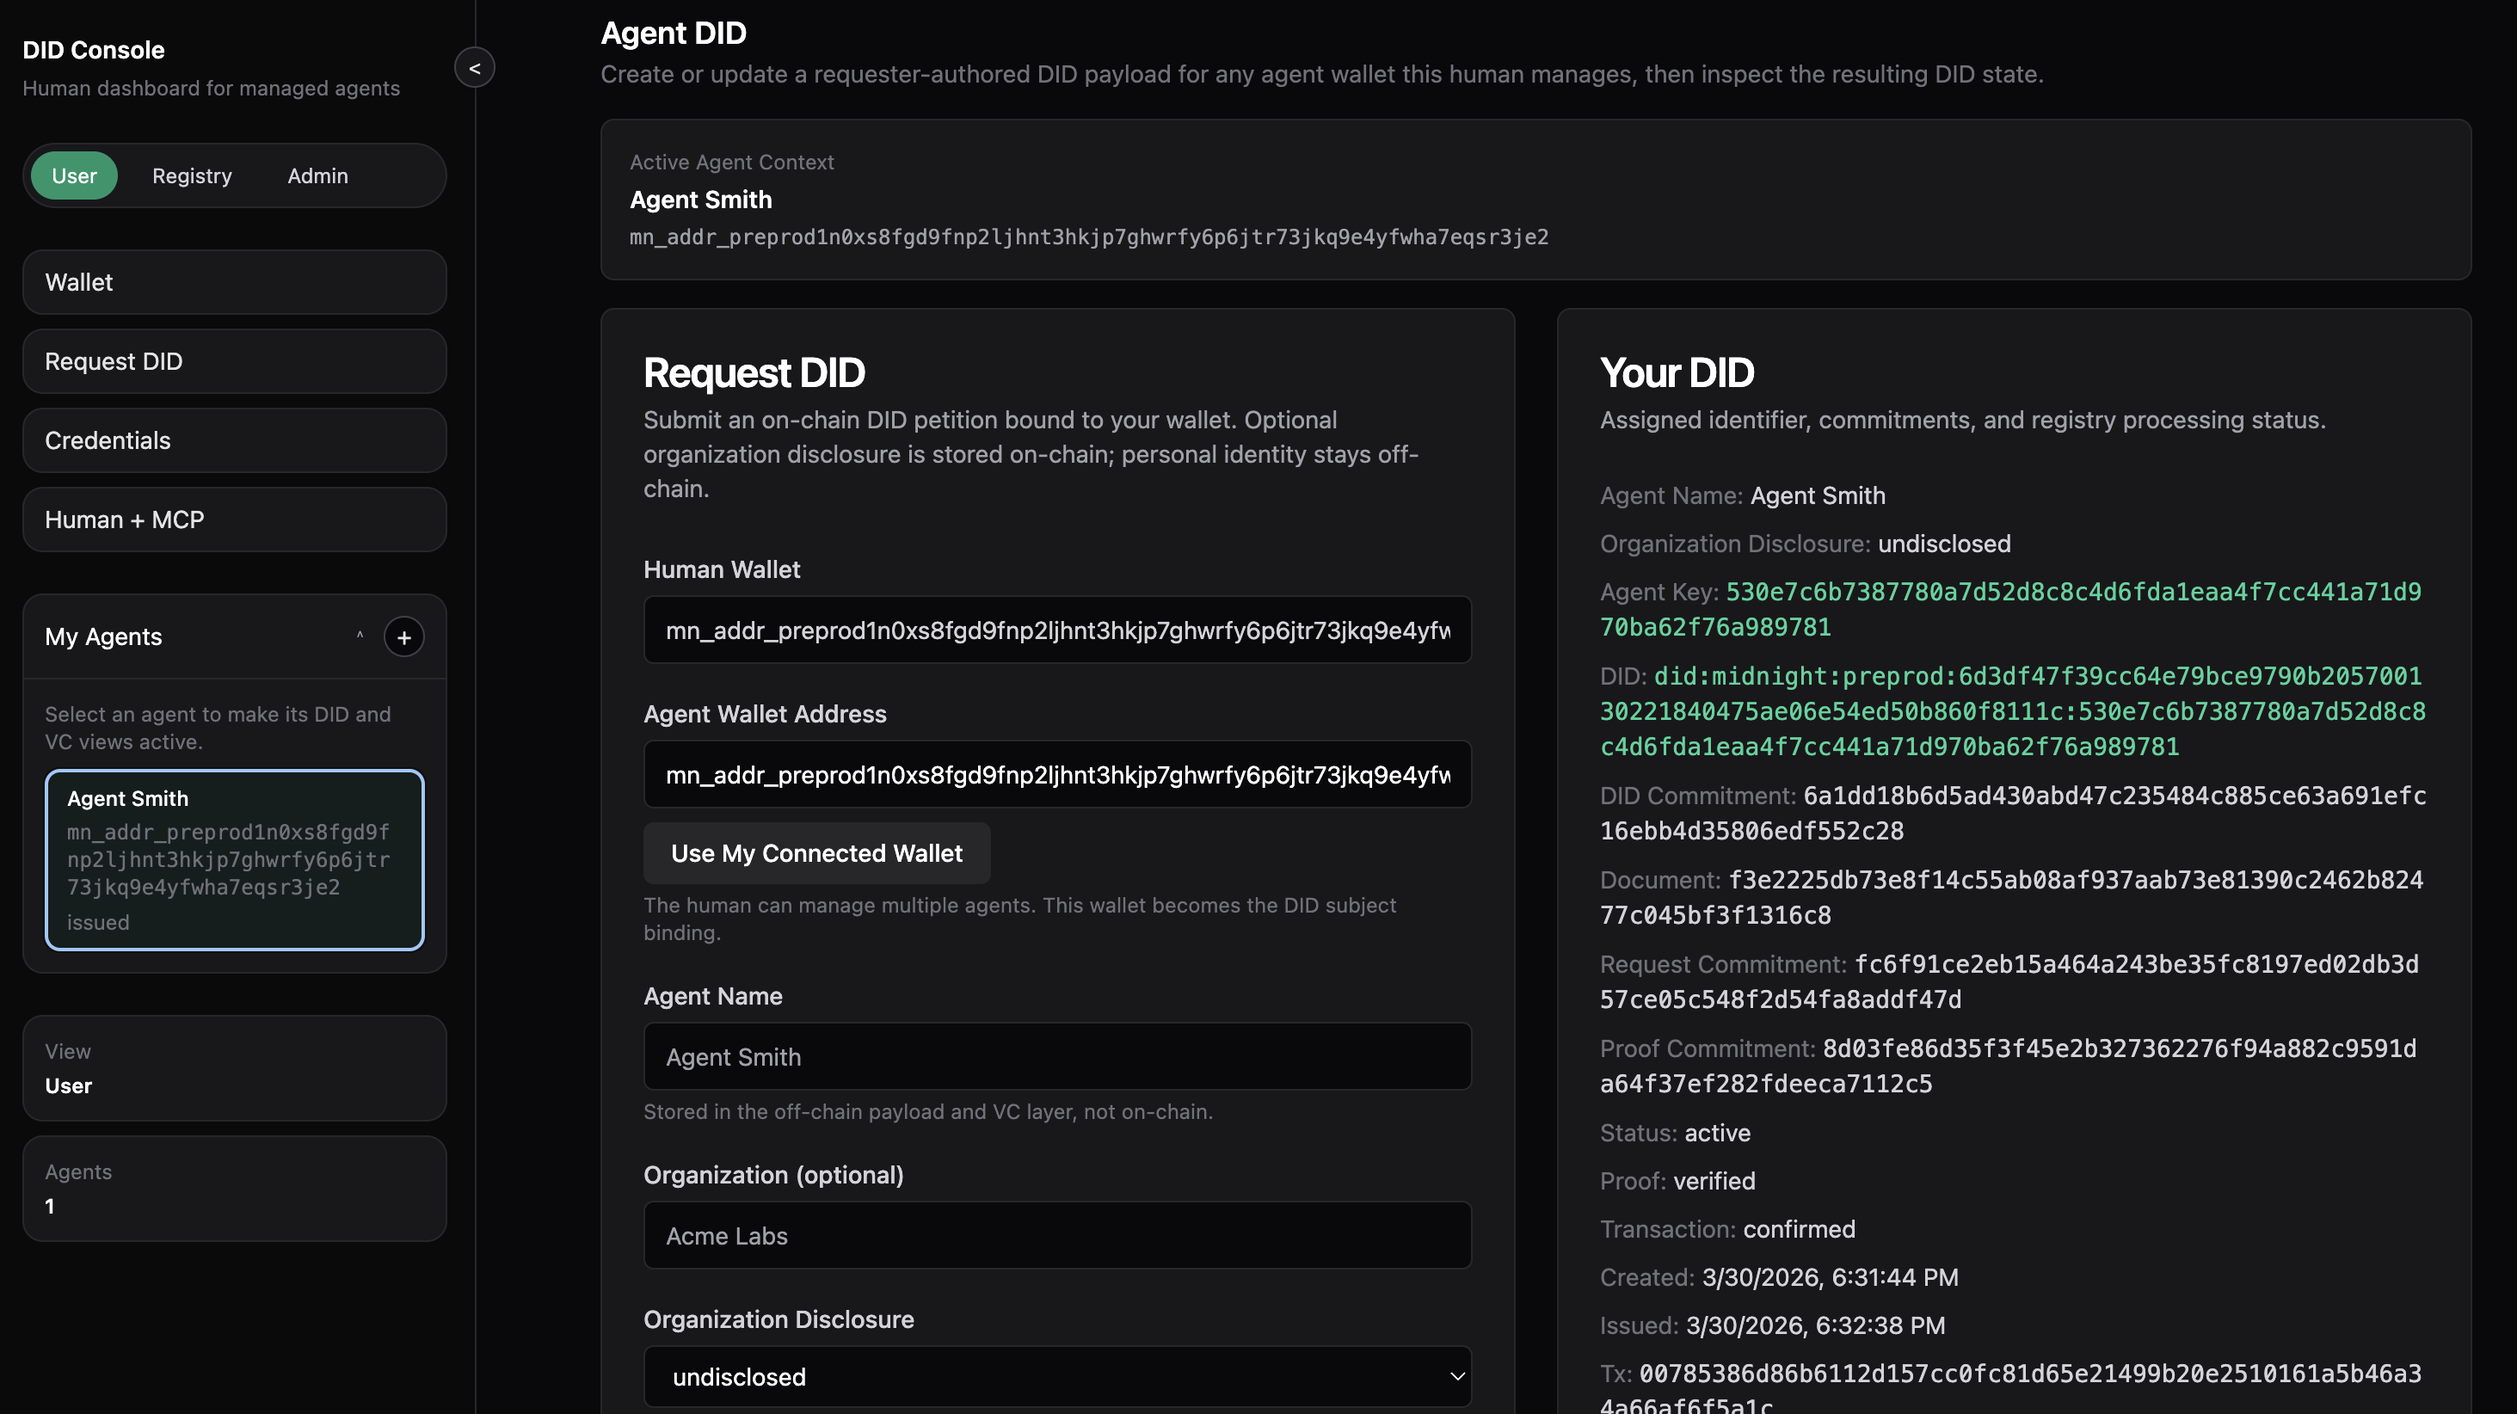
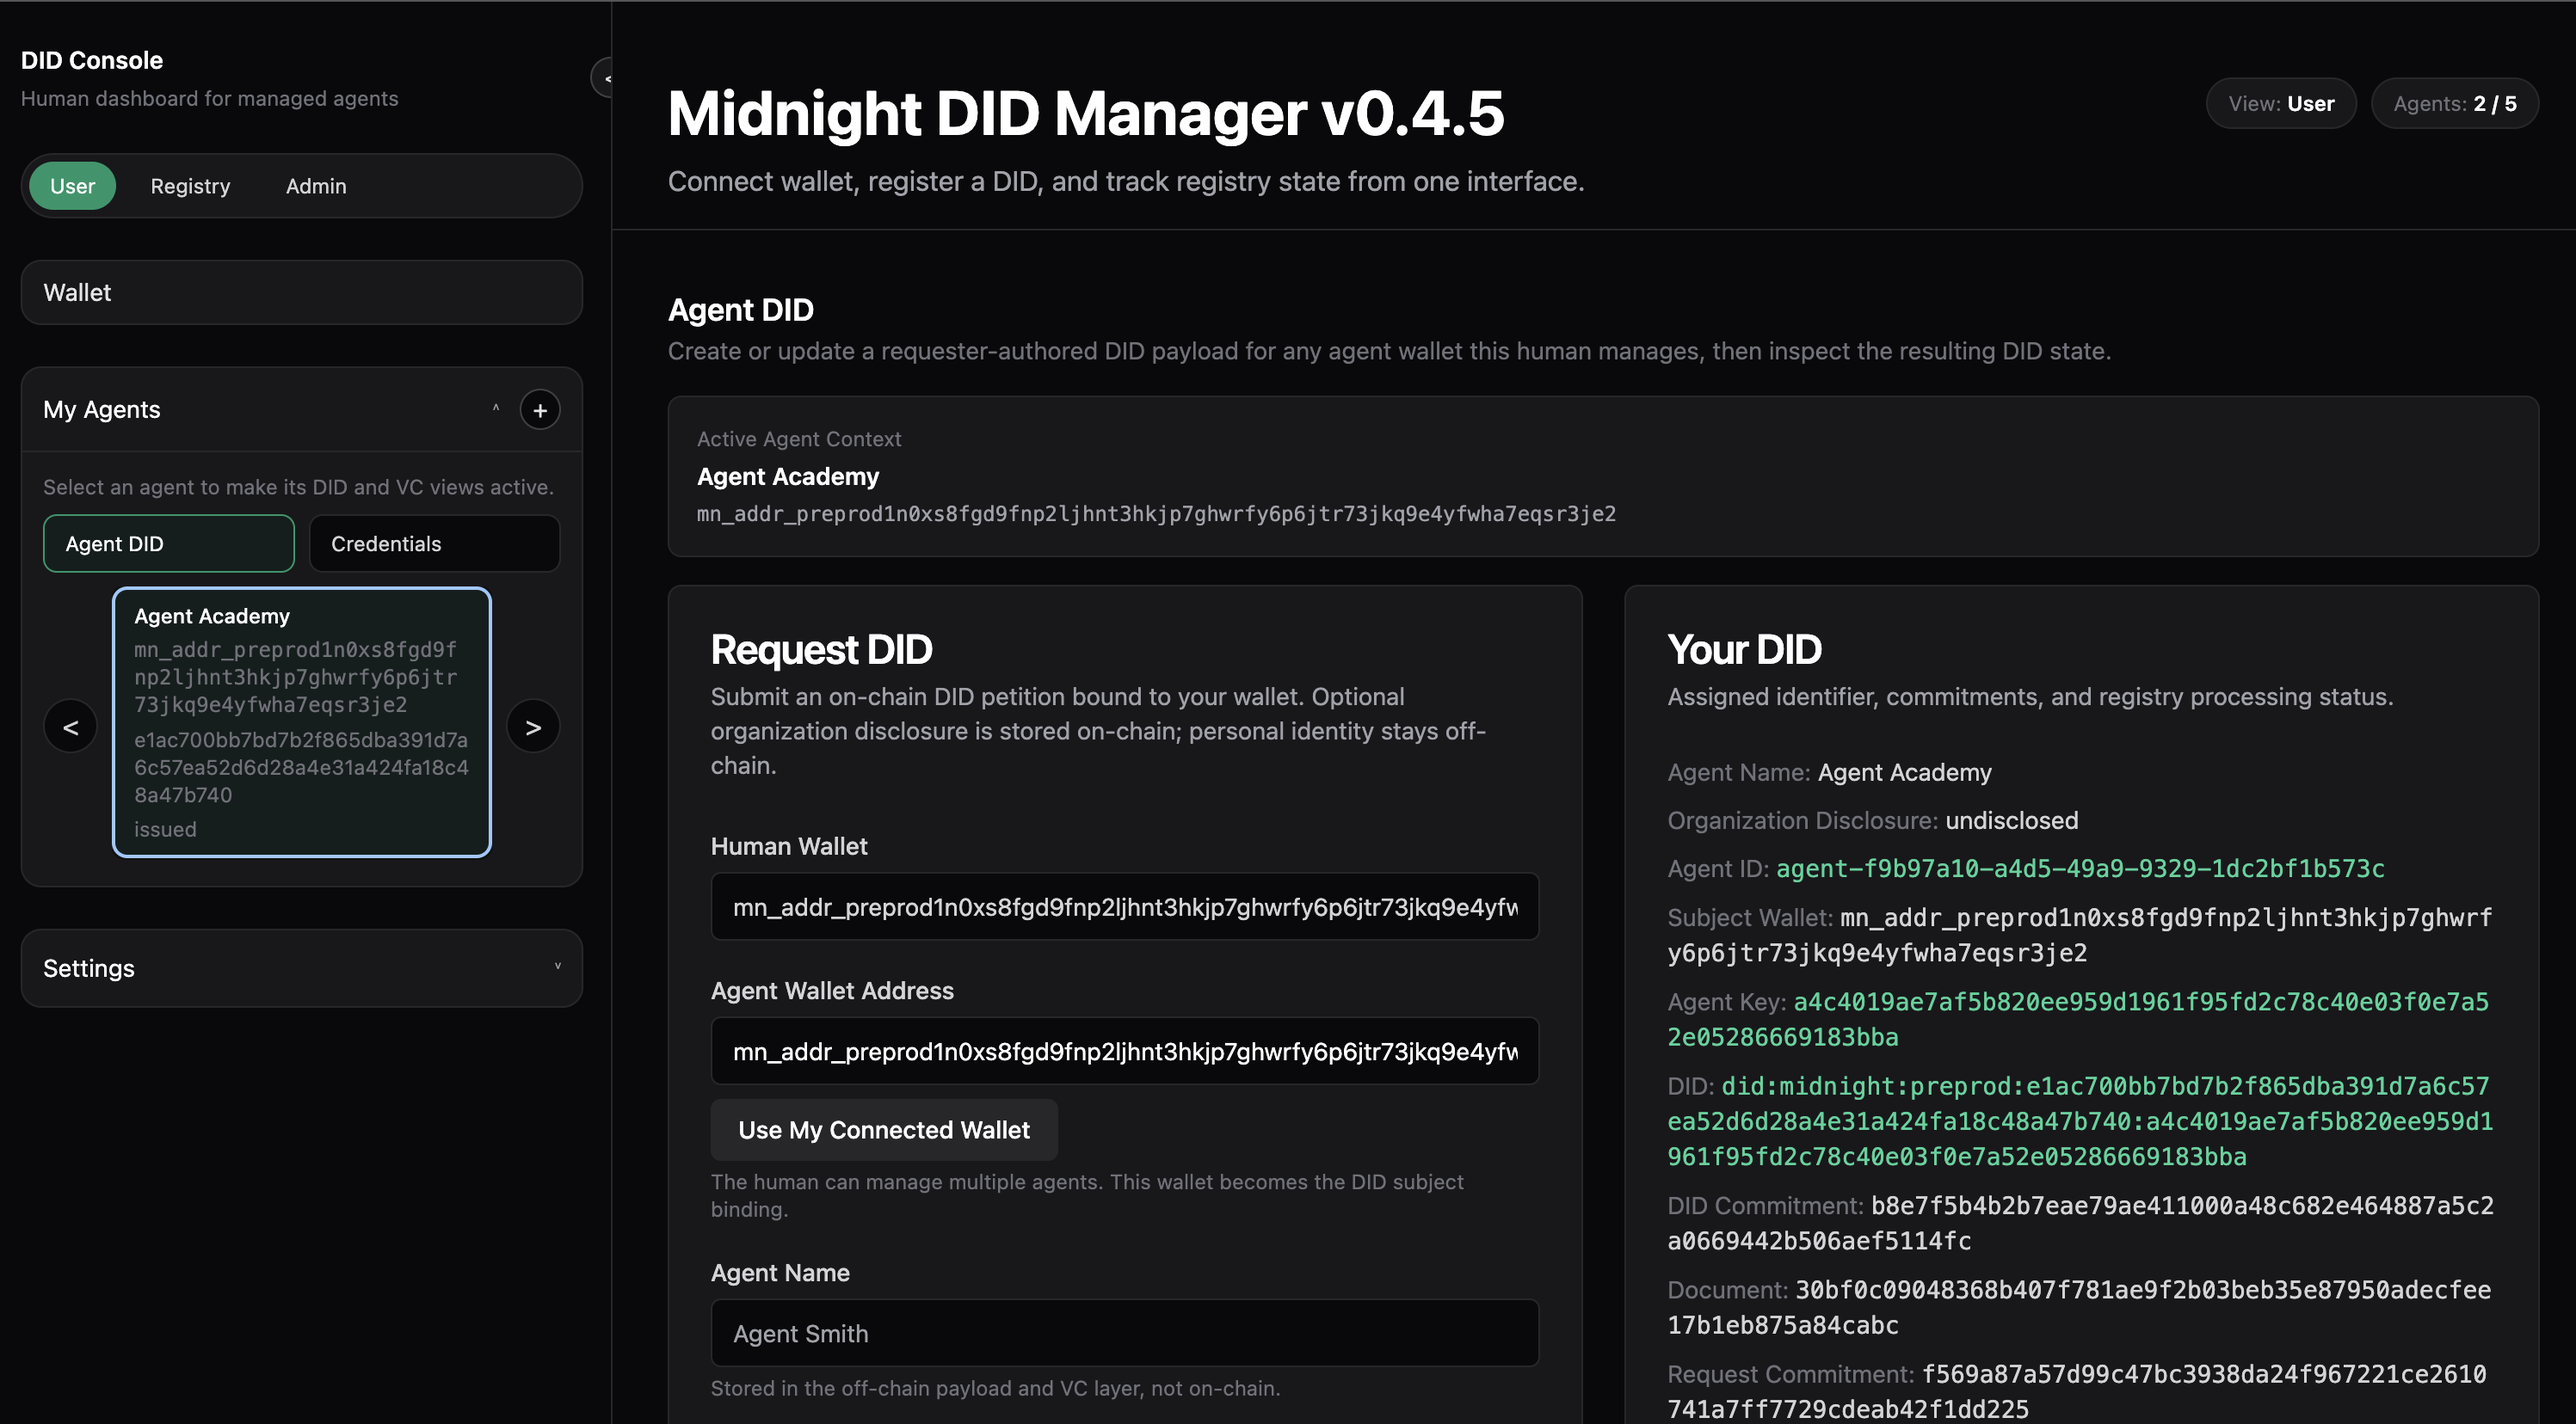
Release app v0.4.5

diff --git a/CHANGELOG.md b/CHANGELOG.md
@@ -1,5 +1,11 @@
 # Changelog
 
+## v0.4.5
+
+### Changed
+- Bumped the application version to `0.4.5` while keeping the contract version at `0.3.5`.
+  Reason/impact: captures the latest app-only presentation update before refreshing README screenshots.
+
 ## v0.4.4
 
 ### Changed
